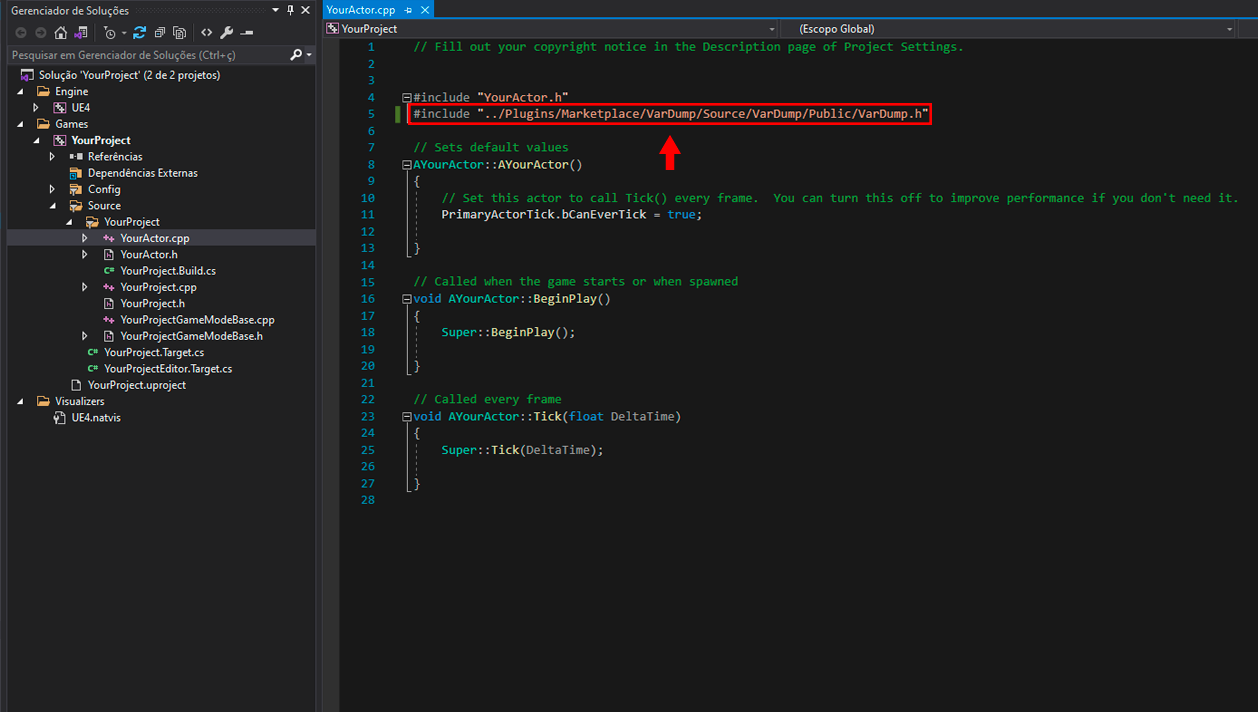
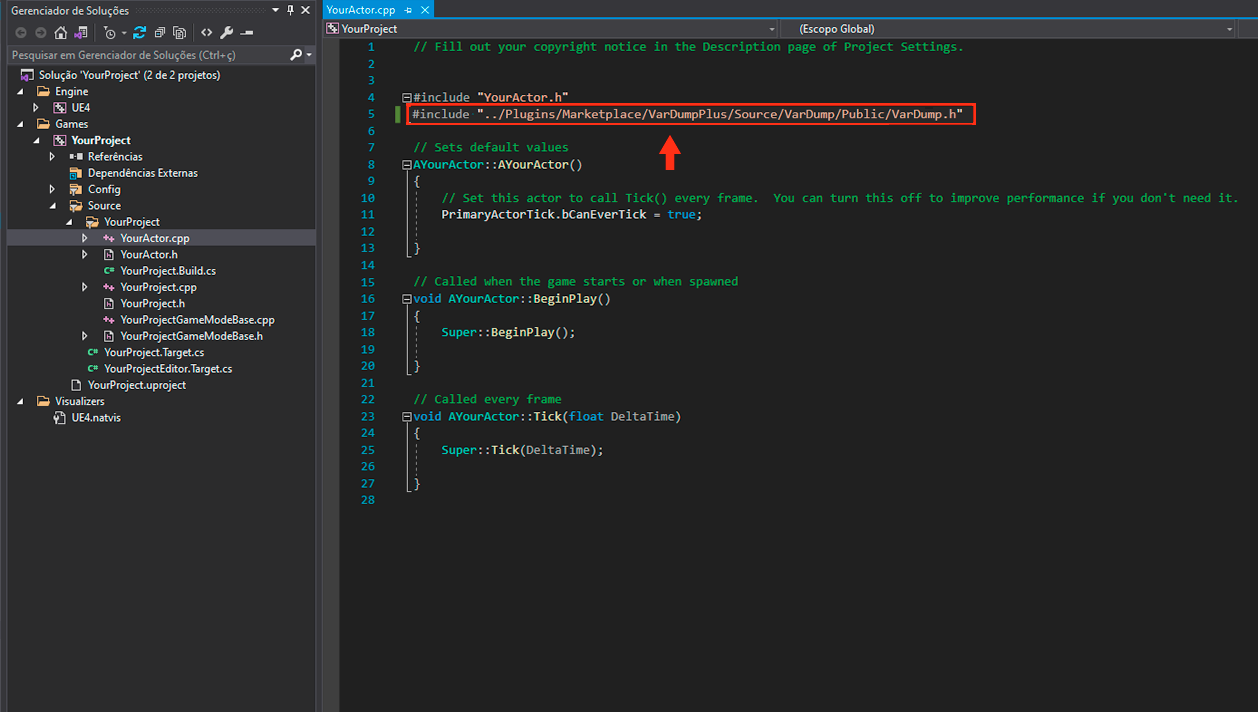
Fix for include

Changed region(s): [[0.31, 0.1236, 0.775, 0.2472]]

diff --git a/settingup.html b/settingup.html
@@ -86,7 +86,7 @@
                 </div>
                 <div>
                     <p class="text-center py-2"><b>Step 3:</b> Add <i>#include
-                            "../Plugins/Marketplace/VarDump/Source/VarDump/Public/VarDump.h" on the files you
+                            "../Plugins/Marketplace/VarDumpPlus/Source/VarDump/Public/VarDump.h" on the files you
                             want to dump a variable</i></p>
                 </div>
             </div>
